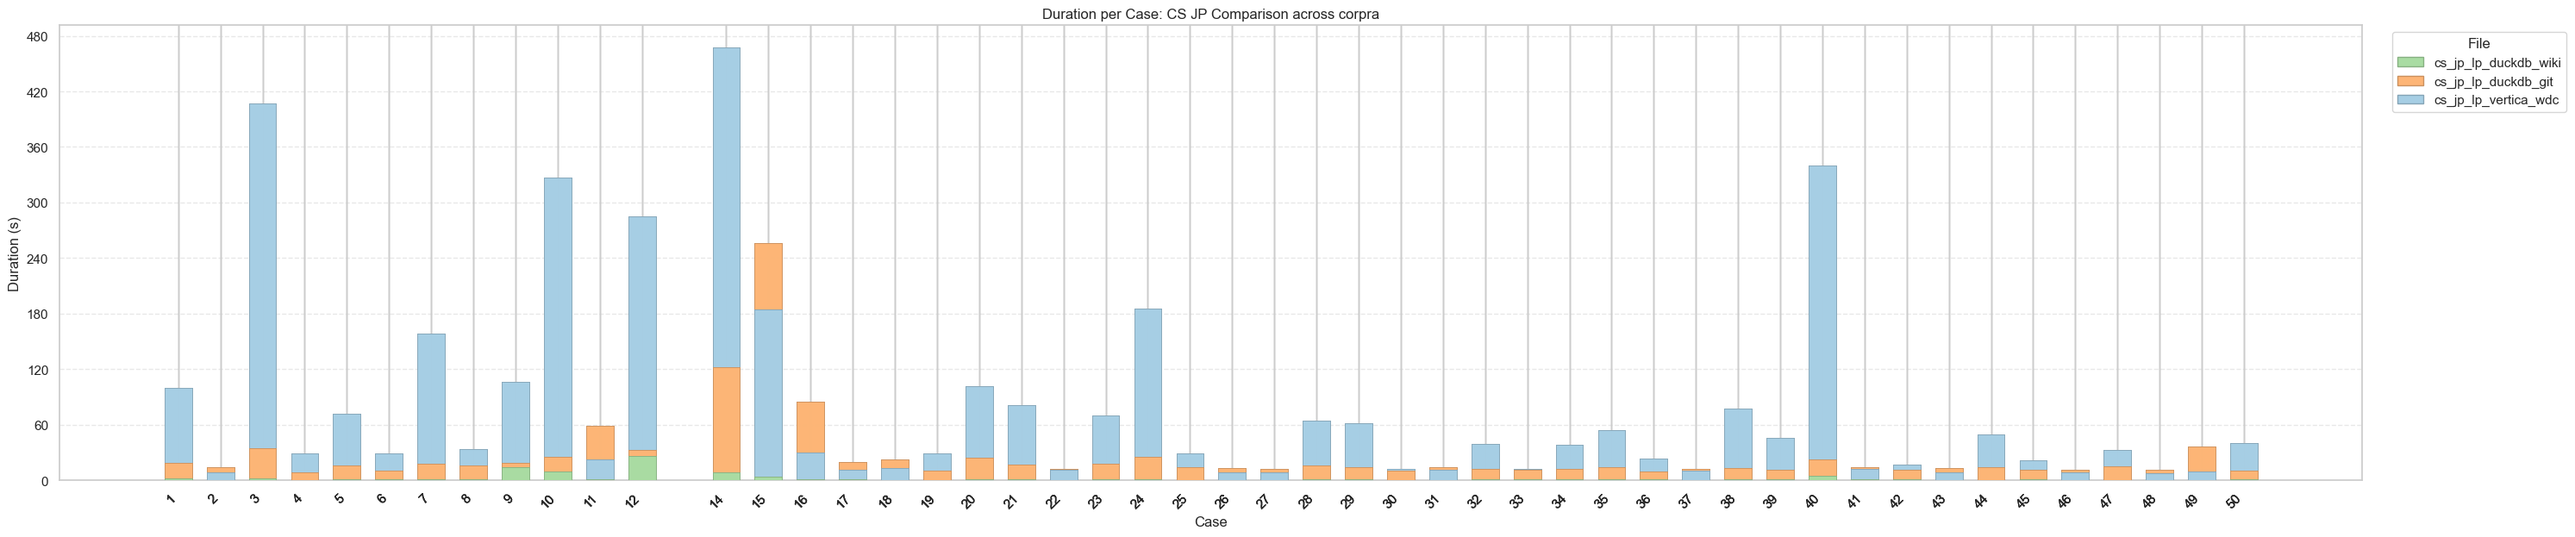
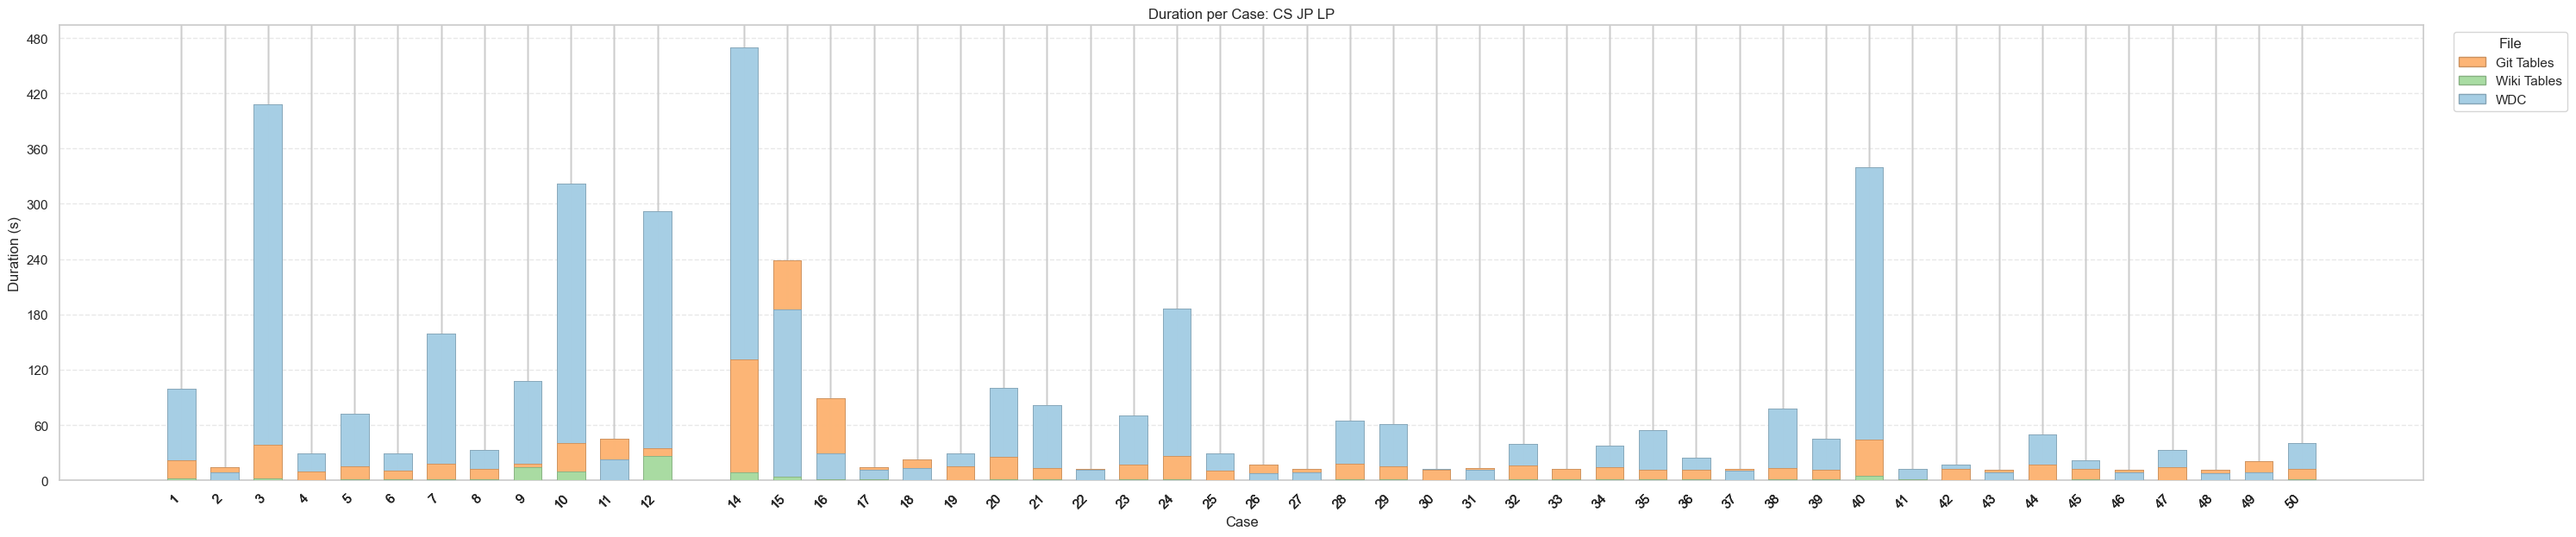
new time plots for case view

diff --git a/evaluation/compare_case_durations.py b/evaluation/compare_case_durations.py
@@ -14,27 +14,45 @@ from matplotlib.patches import Patch
 sys.path.append(os.path.dirname(os.path.dirname(os.path.abspath(__file__))))
 
 from evaluation.plot_style import apply_theme, build_styles
-from evaluation.utils import get_short_filename, load_results
+from evaluation.utils import load_results
 
 
-def process_file(file_path: str) -> pl.DataFrame:
-    """Load a benchmark JSON file and return a DataFrame with case durations."""
-    cases = load_results(file_path)
-    filename = get_short_filename(file_path)
+def process_directory(dir_path: str) -> pl.DataFrame:
+    """Aggregate benchmark_* JSON files in a directory and return mean case durations."""
+    if not os.path.isdir(dir_path):
+        return pl.DataFrame()
+
+    benchmark_files = sorted(
+        os.path.join(dir_path, f)
+        for f in os.listdir(dir_path)
+        if f.startswith("benchmark_") and os.path.isfile(os.path.join(dir_path, f))
+    )
+    if not benchmark_files:
+        return pl.DataFrame()
+
+    case_durations: Dict[int, List[float]] = defaultdict(list)
+    for file_path in benchmark_files:
+        cases = load_results(file_path)
+        for case in cases:
+            case_number = case.get("case_number")
+            if case_number is None:
+                continue
+            duration = case.get("duration_seconds")
+            try:
+                duration_value = float(duration) if duration is not None else 0.0
+            except (TypeError, ValueError):
+                duration_value = 0.0
+            case_durations[int(case_number)].append(duration_value)
+
     records: List[Dict[str, Any]] = []
-
-    for case in cases:
-        case_number = case.get("case_number")
-        if case_number is None:
-            continue
-        duration = case.get("duration_seconds")
-        try:
-            duration_value = float(duration) if duration is not None else 0.0
-        except (TypeError, ValueError):
-            duration_value = 0.0
-        records.append(
-            {"case": int(case_number), "duration": duration_value, "file": filename}
-        )
+    normalized = os.path.normpath(dir_path)
+    parent = os.path.basename(os.path.dirname(normalized))
+    leaf = os.path.basename(normalized)
+    label = f"{parent}/{leaf}"
+    for case_num, durations in case_durations.items():
+        if durations:
+            mean_duration = float(sum(durations) / len(durations))
+            records.append({"case": case_num, "duration": mean_duration, "file": label})
 
     return pl.DataFrame(records) if records else pl.DataFrame()
 
@@ -277,12 +295,22 @@ def parse_args() -> argparse.Namespace:
         description="Visualize per-case benchmark durations."
     )
     parser.add_argument(
-        "--files", nargs="+", required=True, help="One or more benchmark JSON files."
+        "--directories",
+        nargs="+",
+        required=True,
+        help="One or more directories containing benchmark_* JSON files.",
     )
     parser.add_argument(
         "--output", help="Optional path to save the plot (e.g., durations.png)."
     )
     parser.add_argument("--title", help="Optional title override for the plot.")
+    parser.add_argument(
+        "--label",
+        action="append",
+        default=[],
+        metavar="DIR=LABEL",
+        help="Override the plotted label for a directory (repeatable, e.g., /runs/expA=Experiment A).",
+    )
     parser.add_argument(
         "--summary", action="store_true", help="Print summary statistics per file."
     )
@@ -291,17 +319,29 @@ def parse_args() -> argparse.Namespace:
 
 def main():
     args = parse_args()
+    label_overrides: Dict[str, str] = {}
+    for entry in args.label:
+        if "=" not in entry:
+            print(f"Warning: invalid label override, expected DIR=LABEL -> {entry}")
+            continue
+        raw_dir, custom_label = entry.split("=", 1)
+        normalized_dir = os.path.normpath(os.path.abspath(raw_dir))
+        label_overrides[normalized_dir] = custom_label
     apply_theme()
 
     dataframes: List[pl.DataFrame] = []
-    for file_path in args.files:
-        if not os.path.exists(file_path):
-            print(f"Warning: file not found -> {file_path}")
+    for dir_path in args.directories:
+        if not os.path.isdir(dir_path):
+            print(f"Warning: directory not found -> {dir_path}")
             continue
-        df = process_file(file_path)
+        df = process_directory(dir_path)
         if df.is_empty():
-            print(f"Warning: no duration data in -> {file_path}")
+            print(f"Warning: no duration data in -> {dir_path}")
             continue
+        normalized_dir = os.path.normpath(os.path.abspath(dir_path))
+        override_label = label_overrides.get(normalized_dir)
+        if override_label:
+            df = df.with_columns(pl.lit(override_label).alias("file"))
         dataframes.append(df)
 
     if not dataframes:
